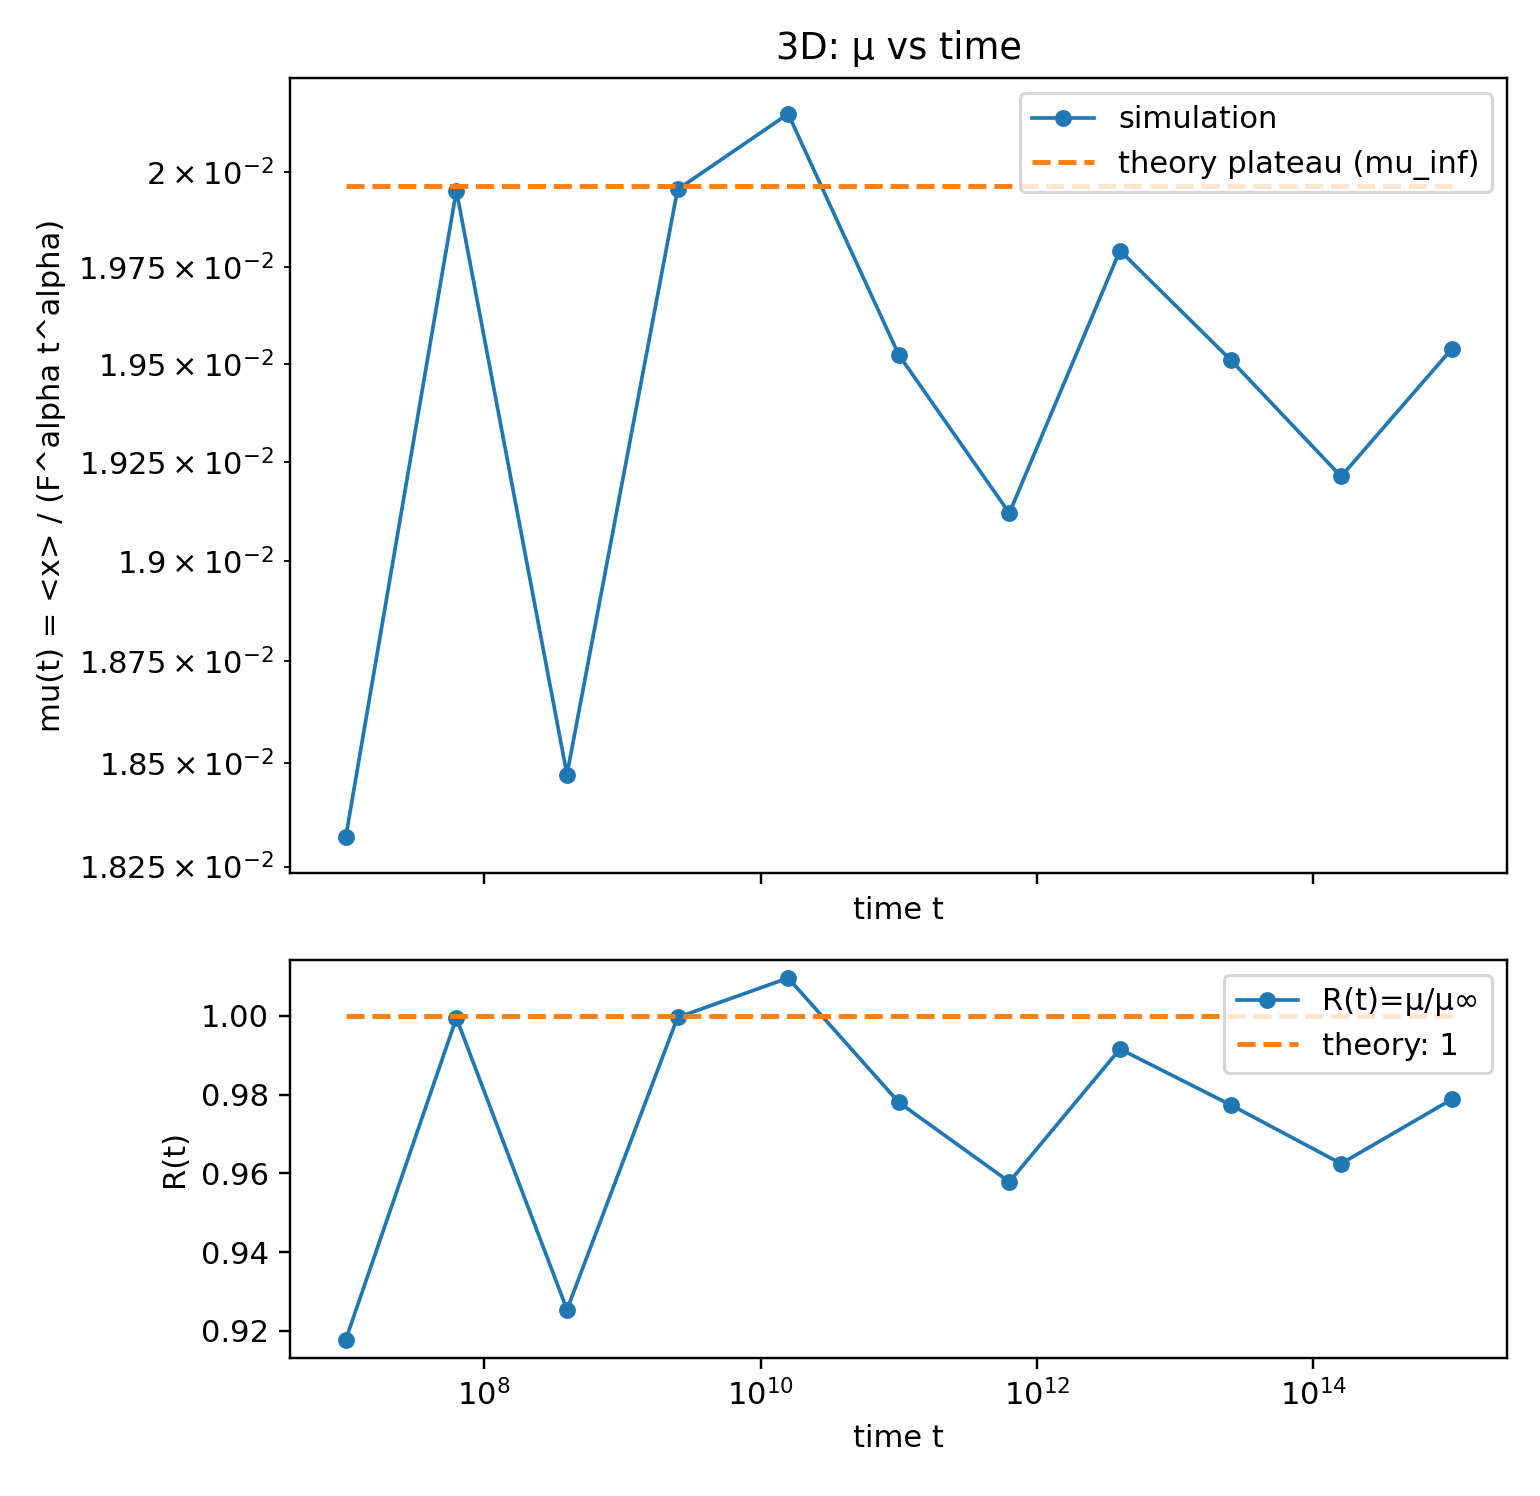
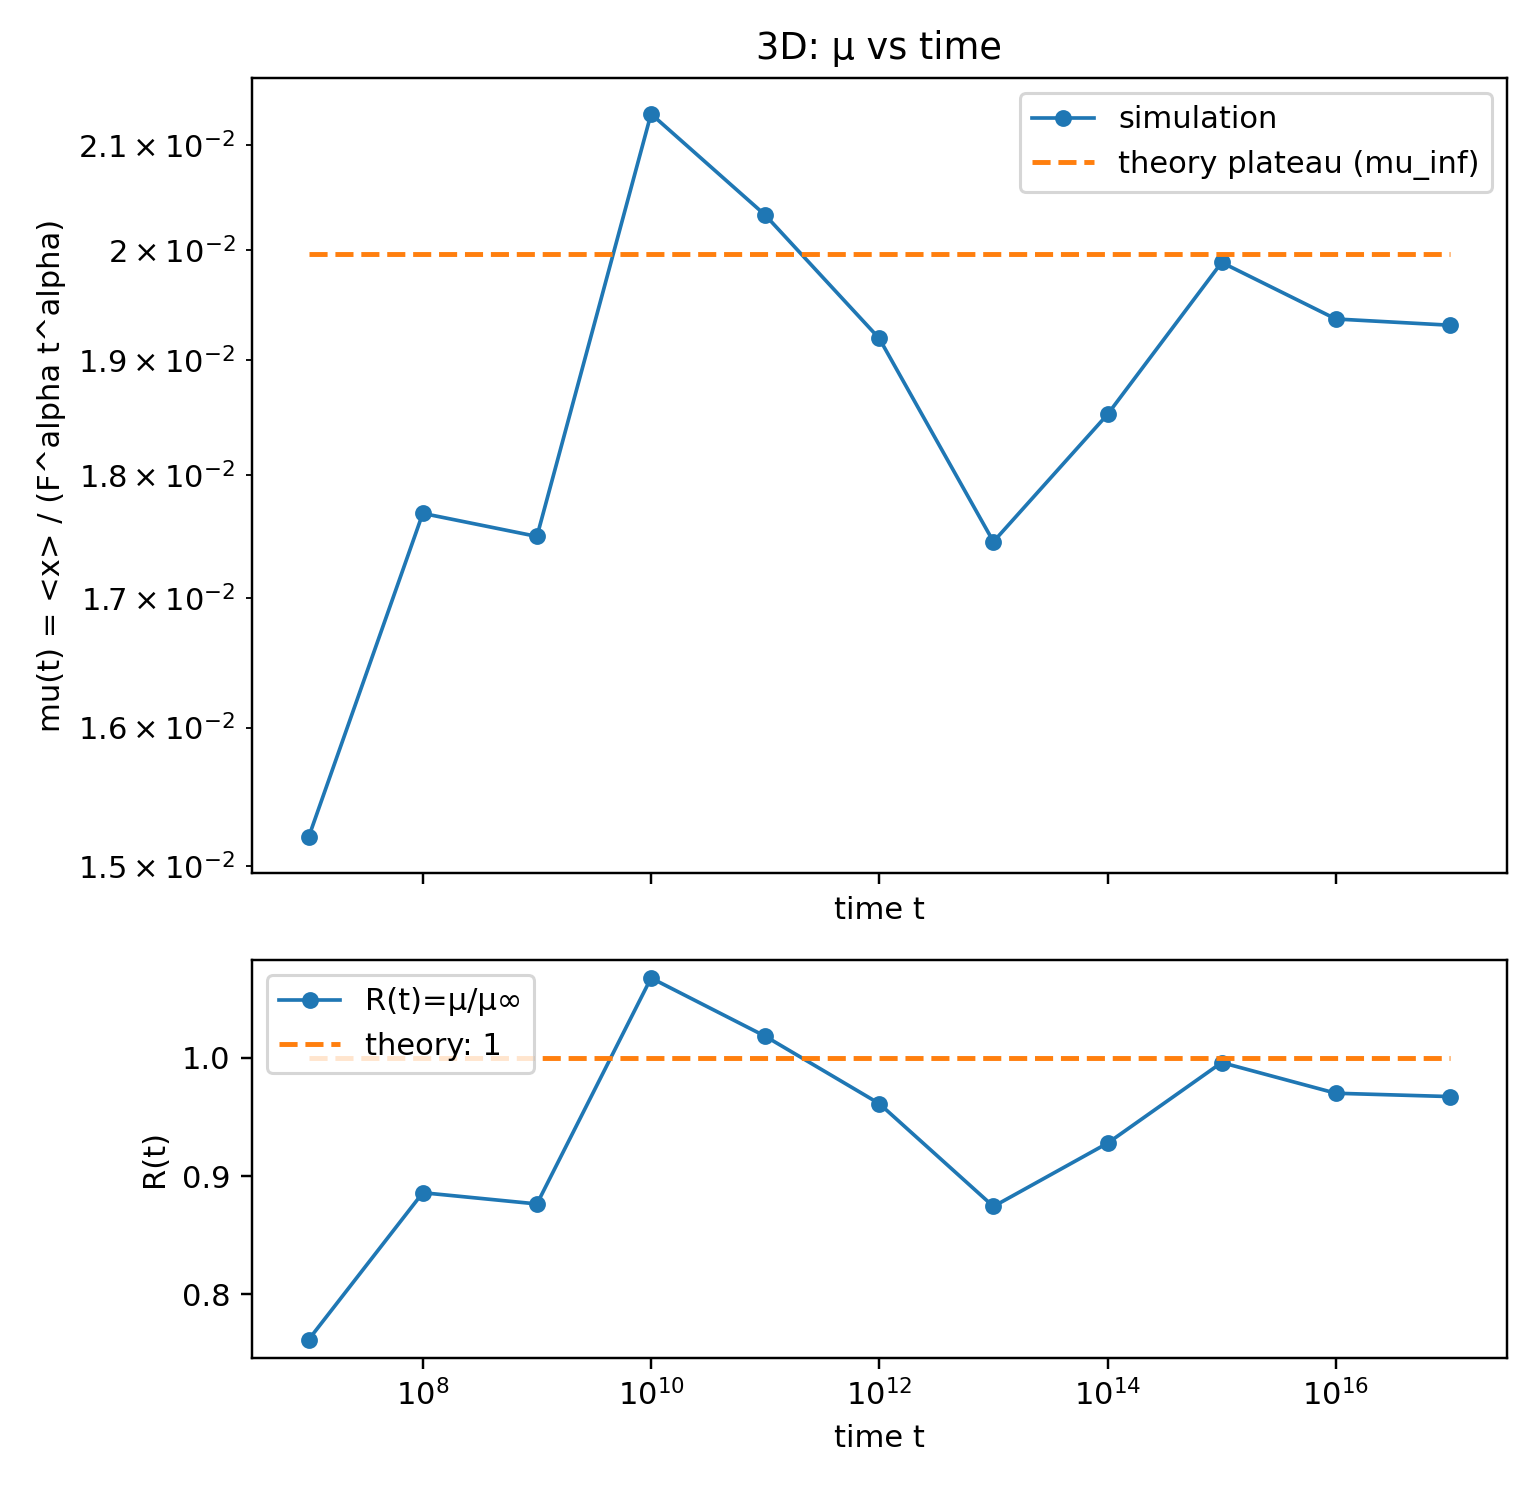
set up for run

diff --git a/muVStime/full_sim_mu_vs_time.cpp b/muVStime/full_sim_mu_vs_time.cpp
@@ -7,9 +7,9 @@ using namespace std;
 
 struct Args {
     int w = 5;
-    int N_traj = 30000;
-    int M = 11;
-    double t_min = 1e7, t_max = 1e15;
+    int N_traj = 300000;
+    int M = 10;
+    double t_min = 1e7, t_max = 1e17;
     double alpha = 0.3;
     double F = 0.01;                 // physical F (used in μ normalization)
     double kappa_alpha = 1.0;        // amplitude in F_eff
